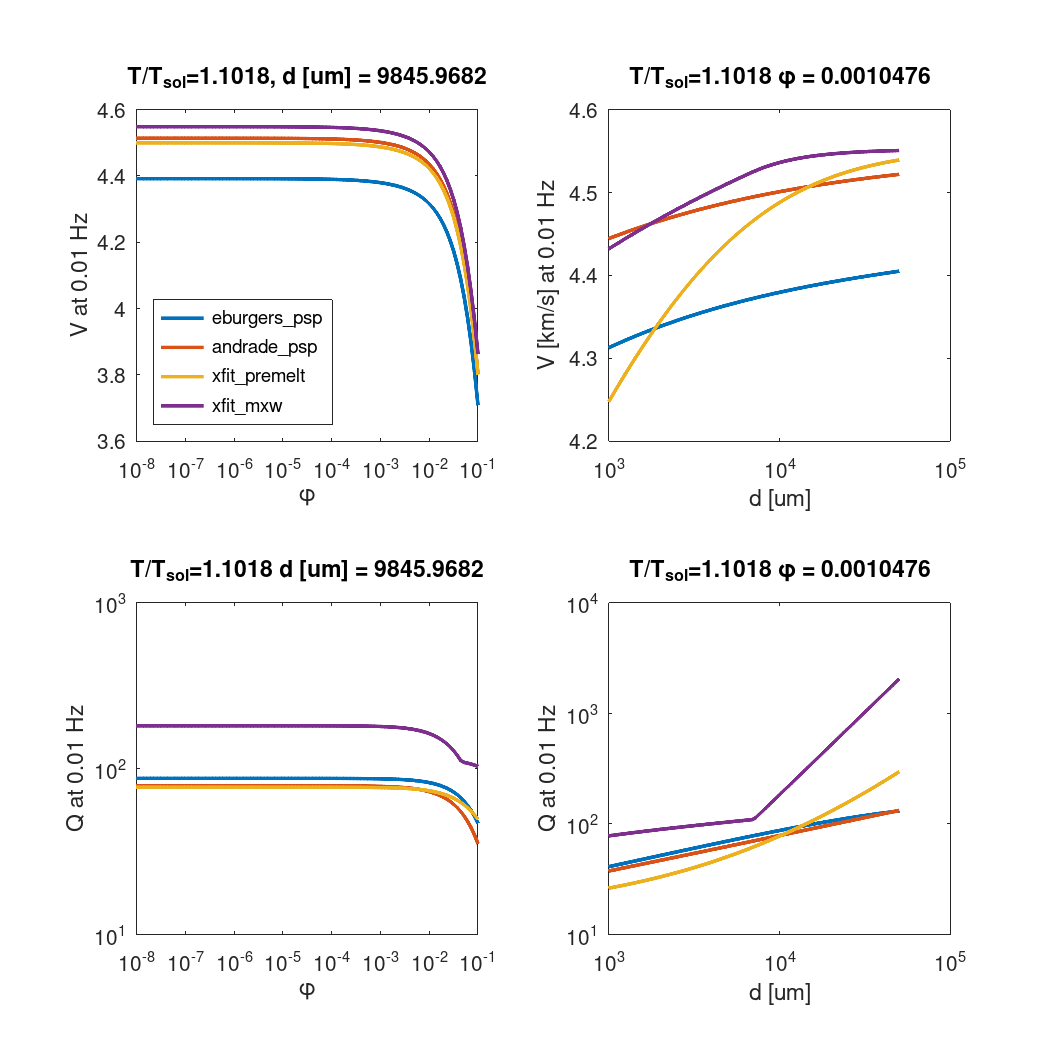
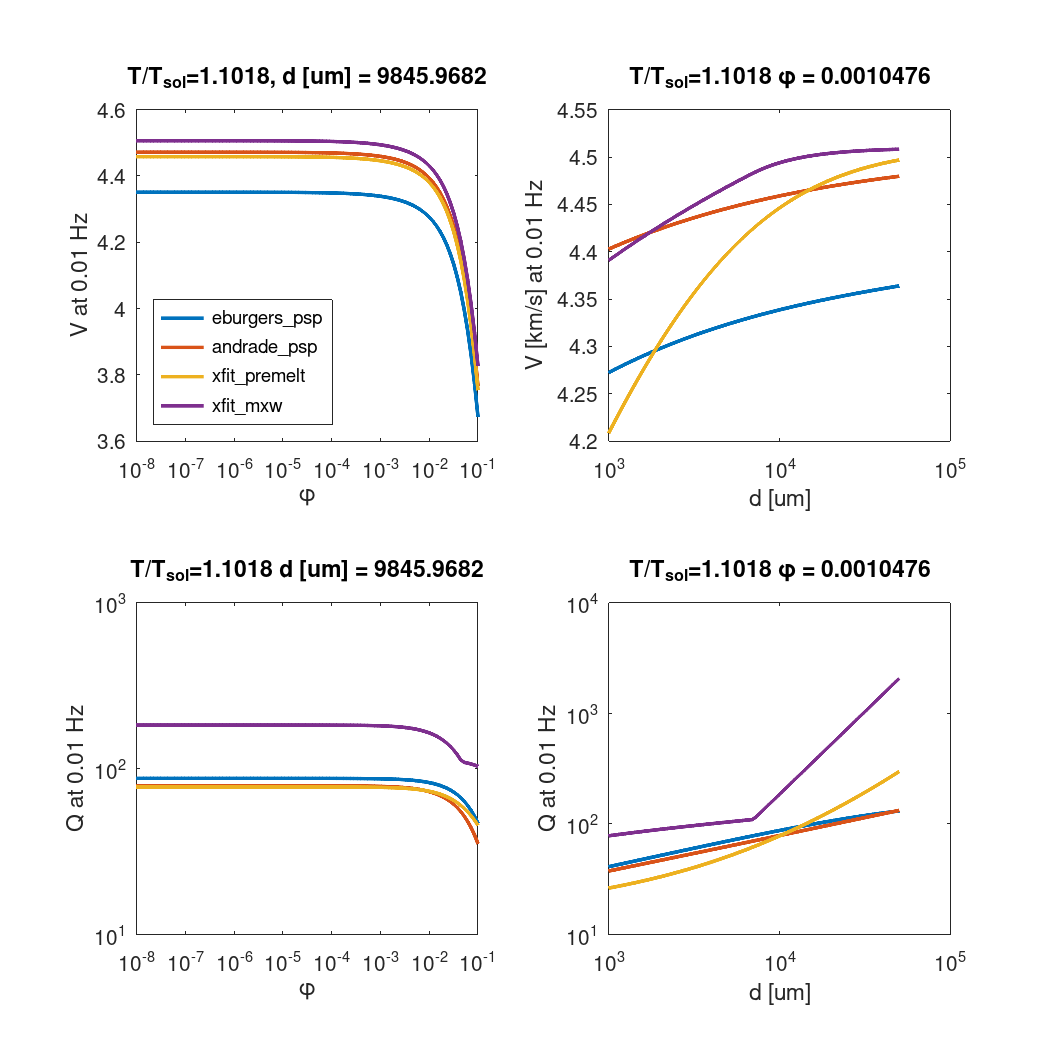
docs rebuilt

diff --git a/vbr/vbrCore/params/Params_Elastic.m b/vbr/vbrCore/params/Params_Elastic.m
@@ -57,14 +57,16 @@ function [params] = Params_Elastic(method,GlobalParams)
     params.description='anharmonic scaling from STP to VBR.in.SV.T_K and VBR.in.SV.P_GPa';
 
     % crustal values (approximate anorthite values calculated using Abers and Hacker 2016)
+    % see https://github.com/vbr-calc/vbrPublicData/blob/master/scripts/an_T_P_G_K.m 
+    % for where these values come from
     params.chi_mixing = 1; 
     params.crust.Gu_0 = 40; % effective reference shear modulus for crust [GPa]
-    params.crust.Ku_0 = 80; % effective reference shear modulus for crust [GPa]
-    params.crust.dG_dT = -3.0e6 ; % Pa/K
-    params.crust.dG_dP = 3.5 ; % Pa/Pa
+    params.crust.Ku_0 = 86; % effective reference shear modulus for crust [GPa]
+    params.crust.dG_dT = -3.6 *1e6 ; % Pa/K
+    params.crust.dG_dP = 0.011474 ; % GPa/GPa
     params.crust.dG_dP2 = 0.0; % 1/Pa
-    params.crust.dK_dT = -1.8 * 1e7; % Pa/K 
-    params.crust.dK_dP = 6 ; % Pa/Pa
+    params.crust.dK_dT = -4.7 * 1e6; % Pa/K 
+    params.crust.dK_dP = 0.013032 ; % Pa/Pa
     params.crust.dK_dP2 = 0.0; % 1/Pa
 
 

diff --git a/Projects/vbr_core_examples/CB_016_complex_viscosity.m b/Projects/vbr_core_examples/CB_016_complex_viscosity.m
@@ -22,6 +22,8 @@ VBR.in.anelastic.andrade_analytical.eta_ss = 1.888272e+21;
 % set state variables
 n1 = 1;
 VBR.in.SV.rho = 3300 * ones(n1,1); % density [kg m^-3]
+VBR.in.SV.P_GPa = 2 * ones(n1,1); % pressure [GPa]
+VBR.in.SV.T_K = 1473 * ones(n1,1); % temperature [K]
 VBR.in.SV.f = logspace(-13,1,100);
 VBR.in.elastic.Gu_TP = 60*1e9;
 VBR.in.elastic.quiet = 1;

diff --git a/docs/_pages/examples/CB_010_depthProfiles.md b/docs/_pages/examples/CB_010_depthProfiles.md
@@ -4,6 +4,9 @@ title: ""
 ---
 
 # CB_010_depthProfiles.m
+## output figures
+
+!['CB_010_depthProfiles'](/vbr/assets/images/CBs/CB_010_depthProfiles.png){:class="img-responsive"}
 ## contents
 ```matlab
 function [VBR,HF] = CB_010_depthProfiles()
@@ -22,86 +25,85 @@ function [VBR,HF] = CB_010_depthProfiles()
   %%%%%%%%%%%%%%%%%%%%%%%%%%%%%%%%%%%%%%%%%%%%%%%%%%%%%%%%%%%%%%%%%%%%%%%%%%%
 
   %% put VBR in the path %%
-    path_to_top_level_vbr='../../';
-    addpath(path_to_top_level_vbr)
-    vbr_init
+  path_to_top_level_vbr='../../';
+  addpath(path_to_top_level_vbr)
+  vbr_init
 
   %% build thermal model %%
-    HF = HalfspaceModel(30); % analytical half-space cooling
-    HF = correctHF(HF); % adjust solution (variable density, etc.)
-    [Solidus] = SoLiquidus(HF.P,5,0,'katz');
-    Tsolidus_C=Solidus.Tsol;
+  HF = HalfspaceModel(30); % analytical half-space cooling
+  HF = correctHF(HF); % adjust solution (variable density, etc.)
+  [Solidus] = SoLiquidus(HF.P,5,0,'katz');
+  Tsolidus_C=Solidus.Tsol;
 
   %% Load and set VBR parameters and stave variables %%
-    VBR.in.elastic.methods_list={'anharmonic';'anh_poro'};
-    VBR.in.viscous.methods_list={'HK2003'};
-    VBR.in.anelastic.methods_list={'eburgers_psp';'andrade_psp';'xfit_mxw'; 'xfit_premelt'};
-    VBR.in.elastic.anharmonic=Params_Elastic('anharmonic'); % unrelaxed elasticity
-    VBR.in.elastic.anharmonic.Gu_0_ol = 75.5; % olivine reference shear modulus [GPa]
-    VBR.in.SV.f = [0.01, 0.02, 0.04, 0.1];%  frequencies to calculate at
+  VBR.in.elastic.methods_list={'anharmonic';'anh_poro'};
+  VBR.in.viscous.methods_list={'HK2003'};
+  VBR.in.anelastic.methods_list={'eburgers_psp';'andrade_psp';'xfit_mxw'; 'xfit_premelt'};
+  VBR.in.elastic.anharmonic=Params_Elastic('anharmonic'); % unrelaxed elasticity
+  VBR.in.elastic.anharmonic.Gu_0_ol = 75.5; % olivine reference shear modulus [GPa]
+  VBR.in.SV.f = [0.01, 0.02, 0.04, 0.1];%  frequencies to calculate at
 
-    % store thermal model in VBR state variables
-    VBR.in.SV.T_K = HF.T_C+273; % set HF temperature, convert to K
-    VBR.in.SV.P_GPa = HF.P/1e9; % pressure [GPa]
-    VBR.in.SV.rho=HF.rho; % density [kg m^-3]
-    VBR.in.SV.chi=HF.chi;
+  % store thermal model in VBR state variables
+  VBR.in.SV.T_K = HF.T_C+273; % set HF temperature, convert to K
+  VBR.in.SV.P_GPa = HF.P/1e9; % pressure [GPa]
+  VBR.in.SV.rho=HF.rho; % density [kg m^-3]
+  VBR.in.SV.chi=HF.chi;
 
-    % set the other state variables as matrices of same size
-    sz=size(HF.T_C);
-    VBR.in.SV.sig_MPa = 10 * ones(sz); % differential stress [MPa]
-    VBR.in.SV.Tsolidus_K = Tsolidus_C+273;
-    VBR.in.SV.phi = 0.01 * (HF.T_C > Tsolidus_C); % melt fraction
-    VBR.in.SV.dg_um = 0.01 * 1e6 * ones(sz); % grain size [um]
+  % set the other state variables as matrices of same size
+  sz=size(HF.T_C);
+  VBR.in.SV.sig_MPa = 10 * ones(sz); % differential stress [MPa]
+  VBR.in.SV.Tsolidus_K = Tsolidus_C+273;
+  VBR.in.SV.phi = 0.01 * (HF.T_C > Tsolidus_C); % melt fraction
+  VBR.in.SV.dg_um = 0.01 * 1e6 * ones(sz); % grain size [um]
 
-  %% CALL THE VBR CALCULATOR %%
-    [VBR] = VBR_spine(VBR) ;
+  %% CALL THE VBR CALCULATOR %%  
+  [VBR] = VBR_spine(VBR) ;
 
-  %% Build figures %%
+  %% Build figures %%  
+  figure('PaperPosition',[0,0,14,4],'PaperPositionMode','manual')
+  ax1=subplot(1,5,1);
+  plot(HF.T_C,HF.z_km)
+  hold on
+  plot(Tsolidus_C,HF.z_km,'--k')
+  xlabel('T [C]')
+  ylabel('Depth [km]')
+  set(gca,'ydir','reverse')
 
-    figure('PaperPosition',[0,0,8,4],'PaperPositionMode','manual')
-    ax1=subplot(1,5,1);
-    plot(HF.T_C,HF.z_km)
-    hold on
-    plot(Tsolidus_C,HF.z_km,'--k')
-    xlabel('T [C]')
+  ax2=subplot(1,5,2);
+  plot(HF.P/1e9,HF.z_km)
+  xlabel('P [GPa]')
+  ylabel('Depth [km]')
+  set(gca,'ydir','reverse')
+
+  ax3=subplot(1,5,3);
+  plot(HF.rho/1e3,HF.z_km)
+  xlabel('\rho [g/m3]')
+  ylabel('Depth [km]')
+  set(gca,'ydir','reverse')
+
+  for imeth = 1:numel(VBR.in.anelastic.methods_list)
+    meth=VBR.in.anelastic.methods_list{imeth};
+    
+    ax4=subplot(1,5,4);
+    hold all
+    plot(squeeze(VBR.out.anelastic.(meth).V(:,1))/1e3,HF.z_km,'displayname',meth)
+    xlabel('ave. Vs [km/s]')
     ylabel('Depth [km]')
+    xlim([4.2,4.7])
+    box on
     set(gca,'ydir','reverse')
 
-    ax2=subplot(1,5,2);
-    plot(HF.P/1e9,HF.z_km)
-    xlabel('P [GPa]')
+    ax5=subplot(1,5,5);
+    hold all
+    plot(squeeze(log10(VBR.out.anelastic.(meth).Q(:,1))),HF.z_km,'displayname',meth)
+    xlabel('log10(Q)')
     ylabel('Depth [km]')
+    box on
     set(gca,'ydir','reverse')
+    xlim([0,8])
+  end
 
-    ax3=subplot(1,5,3);
-    plot(HF.rho/1e3,HF.z_km)
-    xlabel('\rho [g/m3]')
-    ylabel('Depth [km]')
-    set(gca,'ydir','reverse')
-
-    for imeth = 1:numel(VBR.in.anelastic.methods_list)
-      meth=VBR.in.anelastic.methods_list{imeth};
-
-      ax4=subplot(1,5,4);
-      hold all
-      plot(squeeze(VBR.out.anelastic.(meth).V(:,1))/1e3,HF.z_km,'displayname',meth)
-      xlabel('ave. Vs [km/s]')
-      ylabel('Depth [km]')
-      xlim([4.2,4.7])
-      box on
-      set(gca,'ydir','reverse')
-
-      ax5=subplot(1,5,5);
-      hold all
-      plot(squeeze(log10(VBR.out.anelastic.(meth).Q(:,1))),HF.z_km,'displayname',meth)
-      xlabel('log10(Q)')
-      ylabel('Depth [km]')
-      box on
-      set(gca,'ydir','reverse')
-      xlim([0,8])
-    end
-
-    saveas(gcf,'./figures/CB_00210_depthProfiles.png')
+  saveas(gcf,'./figures/CB_010_depthProfiles.png')
 end
 
 function HF = HalfspaceModel(age_Myrs)

diff --git a/docs/_pages/examples/CB_008_anharmonic_Guo.md b/docs/_pages/examples/CB_008_anharmonic_Guo.md
@@ -45,34 +45,31 @@ title: ""
 %% call VBR_spine %%
   [VBR] = VBR_spine(VBR) ;
 
-%% plot the result %%
-  figure()
-  subplot(2,3,1)
+%% plot the result %%  
+  figure('PaperPosition',[0,0,16,4],'PaperPositionMode','manual')
+  subplot(1, 5, 1)
   plot(VBR.in.SV.T_K-273,depth_km,'k','linewidth',1.5)
+  xticks([0, 400, 800, 1200])
   xlabel('T [C]'); ylabel('Depth [km]')
 
-  subplot(2,3,2)
-  plot(VBR.in.SV.rho,depth_km,'k','linewidth',1.5)
-  xlabel('\rho [kg/m^3]')
+  subplot(1, 5,2)
+  plot(VBR.in.SV.rho/1e3,depth_km,'k','linewidth',1.5)
+  xlabel('\rho [g/cm^3]')
 
-  subplot(2,3,3)
+  subplot(1, 5,3)
   plot(VBR.in.SV.P_GPa,depth_km,'k','linewidth',1.5)
   xlabel('P [GPa]')
 
-  subplot(2,3,4)
-  plot(VBR.out.elastic.Gu_0/1e9,depth_km,'k','linewidth',1.5)
-  xlabel('Gu_0 [GPa]'); ylabel('Depth [km]')
-
-  subplot(2,3,5)
+  subplot(1, 5, 4)
   plot(VBR.out.elastic.anharmonic.Gu/1e9,depth_km,'k','linewidth',1.5)
   xlabel('Gu(T,P) [GPa]')
 
-  subplot(2,3,6)
+  subplot(1, 5, 5)
   plot(VBR.out.elastic.anharmonic.Vsu/1e3,depth_km,'k','linewidth',1.5)
   xlabel('V_s [km/s]')
 
-  for ip =1:6
-    subplot(2,3,ip)
+  for ip =1:5
+    subplot(1, 5,ip)
     hold on
     ylim([0,150])
     set(gca,'ydir','reverse')

diff --git a/docs/_pages/examples/CB_003_JF10.md b/docs/_pages/examples/CB_003_JF10.md
@@ -13,7 +13,7 @@ title: ""
 % CB_003_JF10.m
 %
 %  Reproduces figures 1a-1d from JF10: moduli and Qinv vs period for
-%  a single sample, #6585, using coefficients for the single sample fit
+%  a single sample, sample 6585, using coefficients for the single sample fit
 %  in table 1 of JF10.
 %%%%%%%%%%%%%%%%%%%%%%%%%%%%%%%%%%%%%%%%%%%%%%%%%%%%%%%%%%%%%%%%%%%%%%%%%%%
 
@@ -39,8 +39,8 @@ title: ""
 
   % JF10 have Gu_0=62.5 GPa, but that's at 900 Kelvin and 0.2 GPa,
   % so set Gu_0_ol s.t. it ends up at 62.5 at those conditions
-  dGdT=VBR.in.elastic.anharmonic.dG_dT;
-  dGdP=VBR.in.elastic.anharmonic.dG_dP;
+  dGdT=VBR.in.elastic.anharmonic.isaak.dG_dT;
+  dGdP=VBR.in.elastic.anharmonic.cammarano.dG_dP;
   Tref=VBR.in.elastic.anharmonic.T_K_ref;
   Pref=VBR.in.elastic.anharmonic.P_Pa_ref/1e9;
   GUJF10=VBR.in.anelastic.eburgers_psp.s6585_bg_only.G_UR;

diff --git a/docs/_pages/examples/CB_011_meltEffects.md b/docs/_pages/examples/CB_011_meltEffects.md
@@ -4,6 +4,9 @@ title: ""
 ---
 
 # CB_011_meltEffects.m
+## output figures
+
+!['CB_011_meltEffects_case2_fig2'](/vbr/assets/images/CBs/CB_011_meltEffects_case2_fig2.png){:class="img-responsive"}
 ## contents
 ```matlab
 function Results = CB_011_meltEffects(case2run)
@@ -331,8 +334,7 @@ function VBR = appendFixedSVs(VBR,sz)
   VBR.in.SV.dg_um=0.01*1e6* ones(sz); % grain size [um]
   VBR.in.SV.P_GPa = 2 * ones(sz); % pressure [GPa]
   VBR.in.SV.rho = 3300 * ones(sz); % density [kg m^-3]
-  VBR.in.SV.sig_MPa = .1 * ones(sz); % differential stress [MPa]
-  VBR.in.SV.chi = ones(sz); % composition factor
+  VBR.in.SV.sig_MPa = .1 * ones(sz); % differential stress [MPa]  
   VBR.in.SV.f = [0.01,0.02,0.1];
 end
 

diff --git a/docs/_pages/examples/CB_016_complex_viscosity.md b/docs/_pages/examples/CB_016_complex_viscosity.md
@@ -33,6 +33,8 @@ VBR.in.anelastic.andrade_analytical.eta_ss = 1.888272e+21;
 % set state variables
 n1 = 1;
 VBR.in.SV.rho = 3300 * ones(n1,1); % density [kg m^-3]
+VBR.in.SV.P_GPa = 2 * ones(n1,1); % pressure [GPa]
+VBR.in.SV.T_K = 1473 * ones(n1,1); % temperature [K]
 VBR.in.SV.f = logspace(-13,1,100);
 VBR.in.elastic.Gu_TP = 60*1e9;
 VBR.in.elastic.quiet = 1;
